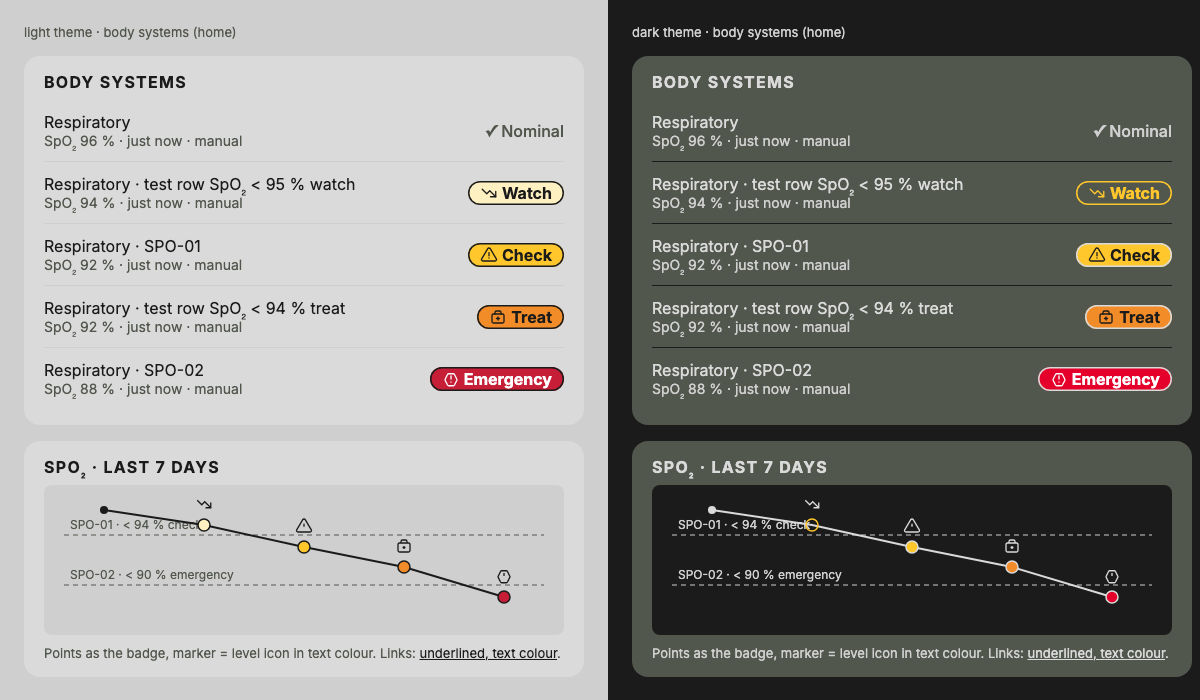
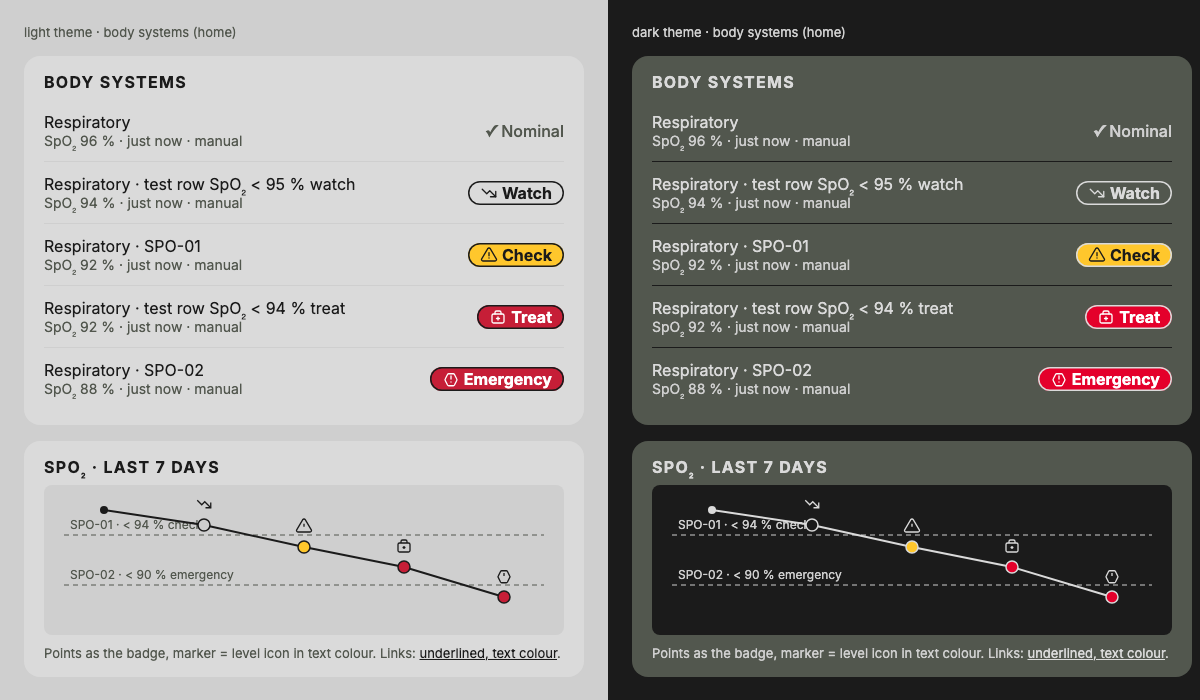
docs: align alert levels with NASA caution and warning classes
Watch becomes neutral (NASA class 0 silent arrow), Treat moves from
orange to red (NASA warning), pale yellow and orange are dropped. Three
level colours remain: blue (advisory), yellow (caution), red (warning,
emergency). Mockups and the alert-levels mock re-rendered.

diff --git a/docs/features/alert-levels.mock.html b/docs/features/alert-levels.mock.html
@@ -3,8 +3,8 @@
 <style>
 *{box-sizing:border-box;margin:0}body{font-family:Inter,sans-serif;font-size:16px;display:grid;grid-template-columns:1fr 1fr;width:1200px}
 .t{padding:24px;display:flex;flex-direction:column;gap:16px}
-.light{--bg:#CFCFCF;--surf:#DADADA;--text:#1B1B1B;--muted:#52574E;--inset:#CFCFCF;--wbg:#FFF0C2;--onw:#1B1B1B;--em:#C61E37}
-.dark{--bg:#1B1B1B;--surf:#52574E;--text:#DADADA;--muted:#CFCFCF;--inset:#1B1B1B;--wbg:transparent;--onw:#FFC72C;--em:#E4002B}
+.light{--bg:#CFCFCF;--surf:#DADADA;--text:#1B1B1B;--muted:#52574E;--inset:#CFCFCF;--em:#C61E37}
+.dark{--bg:#1B1B1B;--surf:#52574E;--text:#DADADA;--muted:#CFCFCF;--inset:#1B1B1B;--em:#E4002B}
 .t{background:var(--bg);color:var(--text)}
 .card{background:var(--surf);border-radius:16px;padding:16px 20px}
 h2{font-size:16px;font-weight:700;letter-spacing:.08em;text-transform:uppercase;margin-bottom:8px}
@@ -13,9 +13,9 @@ h2{font-size:16px;font-weight:700;letter-spacing:.08em;text-transform:uppercase;
 .b{display:inline-flex;align-items:center;gap:4px;padding:2px 12px;border-radius:999px;font-weight:700;white-space:nowrap}
 .b svg{width:18px;height:18px;fill:none;stroke:currentColor;stroke-width:1.75;stroke-linecap:round;stroke-linejoin:round}
 .nom{padding-inline:0;font-weight:500;color:var(--muted)}
-.watch{background:var(--wbg);color:var(--onw);box-shadow:inset 0 0 0 1.5px var(--onw)}
+.watch{color:var(--text);box-shadow:inset 0 0 0 1.5px var(--text)}
 .check{background:#FFC72C;color:#1B1B1B;box-shadow:inset 0 0 0 1.5px var(--text)}
-.treat{background:#F28C28;color:#1B1B1B;box-shadow:inset 0 0 0 1.5px var(--text)}
+.treat{background:var(--em);color:#fff;box-shadow:inset 0 0 0 1.5px var(--text)}
 .emer{background:var(--em);color:#fff;box-shadow:inset 0 0 0 1.5px var(--text)}
 svg.chart{background:var(--inset);border-radius:8px}
 .cap{font-size:13px;color:var(--muted)}
@@ -37,9 +37,9 @@ for(const th of ['light','dark']){document.write(`<div class="t ${th}"><div clas
 <line x1="20" x2="500" y1="100" y2="100" stroke="var(--muted)" stroke-dasharray="5 4"/><text x="26" y="94" font-size="12" fill="var(--muted)">SPO-02 · &lt; 90 % emergency</text>
 <polyline points="60,25 160,40 260,62 360,82 460,112" fill="none" stroke="var(--text)" stroke-width="2"/>
 <circle cx="60" cy="25" r="4" fill="var(--text)"/>
-<circle cx="160" cy="40" r="6" fill="var(--wbg)" stroke="var(--onw)" stroke-width="1.5"/><g transform="translate(151,10)" color="var(--text)">${I.down.replace('<svg','<svg width="18" height="18" fill="none" stroke="currentColor" stroke-width="1.75"')}</g>
+<circle cx="160" cy="40" r="6" fill="var(--inset)" stroke="var(--text)" stroke-width="1.5"/><g transform="translate(151,10)" color="var(--text)">${I.down.replace('<svg','<svg width="18" height="18" fill="none" stroke="currentColor" stroke-width="1.75"')}</g>
 <circle cx="260" cy="62" r="6" fill="#FFC72C" stroke="var(--text)" stroke-width="1.5"/><g transform="translate(251,32)" color="var(--text)">${I.tri.replace('<svg','<svg width="18" height="18" fill="none" stroke="currentColor" stroke-width="1.75"')}</g>
-<circle cx="360" cy="82" r="6" fill="#F28C28" stroke="var(--text)" stroke-width="1.5"/><g transform="translate(351,52)" color="var(--text)">${I.kit.replace('<svg','<svg width="18" height="18" fill="none" stroke="currentColor" stroke-width="1.75"')}</g>
+<circle cx="360" cy="82" r="6" fill="var(--em)" stroke="var(--text)" stroke-width="1.5"/><g transform="translate(351,52)" color="var(--text)">${I.kit.replace('<svg','<svg width="18" height="18" fill="none" stroke="currentColor" stroke-width="1.75"')}</g>
 <circle cx="460" cy="112" r="6" fill="var(--em)" stroke="var(--text)" stroke-width="1.5"/><g transform="translate(451,82)" color="var(--text)">${I.oct.replace('<svg','<svg width="18" height="18" fill="none" stroke="currentColor" stroke-width="1.75"')}</g>
 </svg><div class="cap" style="margin-top:6px">Points as the badge, marker = level icon in text colour. Links: <a href="#">underlined, text colour</a>.</div></div></div>`)}
 </script></body></html>

diff --git a/ideas/mockups/src/08-check-and-act.html b/ideas/mockups/src/08-check-and-act.html
@@ -6,7 +6,7 @@
 .sm{font-size:12.5px;color:#DADADA;line-height:1.5}
 .mut{color:#CFCFCF}
 .ctr{display:grid;grid-template-columns:150px 1fr 70px;gap:4px 10px;font-size:12.5px;margin-top:4px}
-.ctr .y{color:#FFC72C;font-weight:700}
+.ctr .y{color:#DADADA;font-weight:700}
 .act{font-size:12.5px;line-height:1.7}
 .ag{border:1px solid #868375;background:#3D403B;border-radius:8px;padding:9px 10px;margin-top:8px}
 .ag .t{font-size:13px;font-weight:700}.ag .d{font-size:11.5px;color:#CFCFCF;margin-top:3px;line-height:1.4}
@@ -30,8 +30,8 @@
 <text x="34" y="58" fill="#CFCFCF" font-size="10">your baseline 57–65 bpm</text>
 <polyline fill="none" stroke="#DADADA" stroke-width="2" points="40,50 70,48 100,52 130,47 160,50 190,49 220,51 250,46 280,44 310,36 340,30 370,27 400,25"/>
 <g fill="#DADADA"><circle cx="40" cy="50" r="3"/><circle cx="100" cy="52" r="3"/><circle cx="160" cy="50" r="3"/><circle cx="220" cy="51" r="3"/><circle cx="280" cy="44" r="3"/></g>
-<g fill="#1B1B1B" stroke="#FFC72C" stroke-width="2"><circle cx="340" cy="30" r="5"/><circle cx="370" cy="27" r="5"/><circle cx="400" cy="25" r="6"/></g>
-<text x="250" y="16" fill="#FFC72C" font-size="11" font-weight="700">↗ +9 bpm, 3 days running</text>
+<g fill="#1B1B1B" stroke="#DADADA" stroke-width="2"><circle cx="340" cy="30" r="5"/><circle cx="370" cy="27" r="5"/><circle cx="400" cy="25" r="6"/></g>
+<text x="250" y="16" fill="#DADADA" font-size="11" font-weight="700">↗ +9 bpm, 3 days running</text>
 </svg>
 <div class="sm" style="line-height:1.6">Resting HR, last 14 days · today <b>70 bpm</b> (re-measured)<br>Baseline 61 bpm (pre-flight) · no in-flight shift published<br><span class="mut">Trigger: +8 bpm or more for 3 days. App heuristic, not a NASA rule.</span><br><span class="tag">bracelet · simulated</span> <span class="tag">re-measured</span></div>
 </div></div>
@@ -47,7 +47,7 @@
 <div class="ctr">
 <span>Sleep</span><span class="y">↘ 5.4 h avg, 3 nights (target 7–9 h)</span><span class="src">KSS 7 today</span>
 <span>Fluids</span><span class="y">↘ 1.6 L/day, 3 days (target 2.5 L)</span><span class="src">quick log</span>
-<span>Symptoms</span><span class="y">▲ sore throat, FD 144–146</span><span class="src">check-in</span>
+<span>Symptoms</span><span class="y"><span style="color:#FFC72C">▲</span> sore throat, FD 144–146</span><span class="src">check-in</span>
 <span>Temperature</span><span>✓ 37.3 °C, within your in-flight range</span><span class="src">no fever</span>
 <span>Caffeine</span><span>✓ last dose 13:10 yesterday</span><span class="src">check-in</span>
 <span>Exercise load</span><span>✓ as planned (540/600 min/wk)</span><span class="src">routine</span>

diff --git a/ideas/mockups/src/base.css b/ideas/mockups/src/base.css
@@ -15,10 +15,10 @@ body{width:1280px;height:800px;background:#1B1B1B;color:#DADADA;font-family:Inte
 .lv{font-weight:700;font-size:13px;border-radius:13px;padding:3px 10px;display:inline-block;border:1.5px solid #DADADA;white-space:nowrap}
 .nom,.l0{background:transparent;color:#CFCFCF;font-weight:500;font-size:13px;padding:4px 0;display:inline-block}
 .l1{background:transparent;color:#DADADA;border-color:#7FA6F0}.l1 i{color:#7FA6F0;font-style:normal}
-.l2{background:transparent;color:#FFC72C;border-color:#FFC72C}
+.l2{background:transparent;color:#DADADA;border-color:#DADADA}
 .l3{background:#FFC72C;color:#1B1B1B}
-.l4{background:#F28C28;color:#1B1B1B}
-.l5{background:#C61E37;color:#FFFFFF}
+.l4{background:#E4002B;color:#FFFFFF}
+.l5{background:#E4002B;color:#FFFFFF}
 .tag{border:1px solid rgba(218,218,218,.35);border-radius:6px;padding:1px 6px;font-size:11px;color:#CFCFCF}
 .foot{position:absolute;right:14px;bottom:10px;font-size:11px;color:#868375}
 .btn{background:#DADADA;color:#1B1B1B;font-weight:600;border-radius:20px;padding:7px 14px;font-size:13px;display:inline-block}

diff --git a/ideas/alert-levels.md b/ideas/alert-levels.md
@@ -1,32 +1,34 @@
 # Alert levels (0–5)
 
-Added 2026-11-14. One scale for every status the crew app shows: body-map rows, routine items, detail screens and the surgeon packet. It follows the shape of five-level clinical triage scales and adds a level 0 for "all good", so nominal stays quiet. It replaces the three-state nominal / caution / warning set in [crew-health-companion.md](crew-health-companion.md) and the "Proposed tiers" table in [ux-human-factors.md](../research/ux-human-factors.md#3-designing-for-autonomy-under-communication-delay).
+Added 2026-11-14. One scale for every status the crew app shows: body-map rows, routine items, detail screens and the surgeon packet. It follows NASA's caution and warning classes, so the crew reads it the way they read vehicle alerts, and adds a level 1 for the astronaut's own inputs. It replaces the three-state nominal / caution / warning set in [crew-health-companion.md](crew-health-companion.md) and the "Proposed tiers" table in [ux-human-factors.md](../research/ux-human-factors.md#3-designing-for-autonomy-under-communication-delay).
 
 ## The levels
 
-| Level | Word | Meaning | Icon | Typical trigger (from our rule rows) | Default routing (escalation tier) | Interrupts? |
-|---|---|---|---|---|---|---|
-| **0** | Nominal | All good. Nothing happens, no input needed. | ✓ check circle | Values inside the personal baseline and the adaptation corridor | None | No. Quiet: muted text, no fill |
-| **1** | To do | Something to add from the astronaut. Not a health signal. | ✎ edit note | Questionnaire due, PVT due, re-measure requested, glucose or BP to enter by hand | None (the astronaut) | No. Counter badge ("1 due") |
-| **2** | Watch | A value is drifting from normal. A routine change may help. | ↗ / ↘ trend arrow | Sleep under 6 h 3 nights running; hydration below target 3 days running | 1 · Self-care tip, re-check later | No. Silent arrow beside the value (Shuttle "class 0" pattern) |
-| **3** | Check | A value is out of range, or the astronaut reports a symptom or concern. An extra test may help; mention it to the doctors. | ▲ triangle | COG-02 (PVT outside the corridor); SpO₂ < 94% on the first reading; logged headache; positive PHQ-2 | 2 · CMO, or 3 · add to the next private medical conference | No tone. Status chip and a suggested item for the surgeon packet |
-| **4** | Treat | Out of range and needs treatment now, on board. | ✚ medical kit | SpO₂ still < 94% after the re-measure protocol | 2 · CMO now, plus 3 · conference today | Banner on Today until acknowledged. No tone |
-| **5** | Emergency | Immediate danger. Get help. | ⬣ octagon | SpO₂ < 90%, or low SpO₂ with high HR at rest; chest pain with breathlessness | 2 · CMO now + 4 · urgent ground contact; vehicle emergency protocol | Full screen, flashing, tone. Defers to the vehicle caution and warning system |
+The levels follow NASA's caution and warning classes, which astronauts already train on: quiet display, Shuttle class 0 limit sensing, advisory, caution, warning and emergency [S2 §10.9.1.1, Table 10.9-1] [S4]. Only three colours are used, as NASA does: blue (advisory), yellow (caution) and red (warning and emergency).
+
+| Level | Word | NASA class | Meaning | Icon | Typical trigger (from our rule rows) | Default routing (escalation tier) | Interrupts? |
+|---|---|---|---|---|---|---|---|
+| **0** | Nominal | Quiet display [S3] | All good. Nothing happens, no input needed. | ✓ check circle | Values inside the personal baseline and the adaptation corridor | None | No. Quiet: muted text, no fill |
+| **1** | To do | Advisory: routine action | Something to add from the astronaut. Not a health signal. | ✎ edit note | Questionnaire due, PVT due, re-measure requested, glucose or BP to enter by hand | None (the astronaut) | No. Counter badge ("1 to do") |
+| **2** | Watch | Class 0 limit sensing [S2 §10.9.1.1] | A value is drifting from normal. A routine change may help. | ↗ / ↘ trend arrow | Sleep under 6 h 3 nights running; hydration below target 3 days running | 1 · Self-care tip, re-check later | No. Silent, no colour: arrow and word beside the value |
+| **3** | Check | Caution | A value is out of range, or the astronaut reports a symptom or concern. An extra test may help; mention it to the doctors. | ▲ triangle | COG-02 (PVT outside the corridor); SpO₂ < 94% on the first reading; logged headache; positive PHQ-2 | 2 · CMO, or 3 · add to the next private medical conference | No tone. Status chip and a suggested item for the surgeon packet |
+| **4** | Treat | Warning: immediate action | Out of range and needs treatment now, on board. | ✚ medical kit | SpO₂ still < 94% after the re-measure protocol | 2 · CMO now, plus 3 · conference today | Banner on Today until acknowledged. No tone, no flashing |
+| **5** | Emergency | Emergency | Immediate danger. Get help. | ⬣ octagon | SpO₂ < 90%, or low SpO₂ with high HR at rest; chest pain with breathlessness | 2 · CMO now + 4 · urgent ground contact; vehicle emergency protocol | Full screen, flashing, tone. Defers to the vehicle caution and warning system |
 
 Triggers are examples from the rules already in [crew-health-companion.md](crew-health-companion.md) (check-and-act, COG-02, kidney trend). Each real trigger lives in the rule table with its source; this file sets only what a level looks like and does.
 
 ### How it maps to NASA
 
-| Our level | NASA alert class [S4] | NASA colour rule [S1 V2 10114–10119] [S2 §10.11.5.5] |
-|---|---|---|
-| 0 Nominal | — (quiet/dark display) [S3] | no emphasis |
-| 1 To do | Advisory: routine action | blue = advisory |
-| 2 Watch | Caution, low; silent class 0 arrow [S2 §10.9.1.1] | yellow outline (caution family) |
-| 3 Check | Caution | yellow = caution |
-| 4 Treat | Caution, high. Team addition, see open question 1 | orange, between yellow and red |
-| 5 Emergency | Warning / Emergency | red = highest level |
+| Our level | NASA alert class [S4] | NASA colour rule [S1 V2 10114–10119] [S2 §10.11.5.5] | Artemis tone [S4][S5] |
+|---|---|---|---|
+| 0 Nominal | — (quiet/dark display) [S3] | no emphasis | none |
+| 1 To do | Advisory: routine action | blue = advisory | none (advisory beeps are optional) |
+| 2 Watch | Class 0: silent arrow beside an out-of-limit value [S2 §10.9.1.1] | no colour | none |
+| 3 Check | Caution: attention, not immediate action | yellow = caution | none: a health value is not a vehicle caution |
+| 4 Treat | Warning: immediate action | red | none |
+| 5 Emergency | Emergency: threat to the crew | red | yes, deferring to the vehicle C&W tones |
 
-Red stays the highest level and is used for nothing else. Yellow and orange are the caution band. Blue means "your action, not your health".
+Red is used for levels 4 and 5 and nothing else; yellow only for level 3; blue only for level 1. NASA has no orange and one caution yellow, so neither do we. Like NASA's warning and emergency, levels 4 and 5 share red and differ by icon, word and how they interrupt (banner vs full screen with flashing and tone).
 
 ## Colours
 
@@ -36,27 +38,26 @@ Light theme on background `#CFCFCF` / card `#DADADA`; dark theme on background `
 |---|---|---|---|
 | 0 Nominal | none · `#52574E` olive · none | none · `#868375` khaki on background, `#CFCFCF` on the card · none | Olive 4.8:1 on light bg, 5.3:1 on card. Khaki is 4.5:1 on the dark background but 1.9:1 on the olive card, so on the card the word uses `#CFCFCF` (4.8:1) |
 | 1 To do | none · `#1651B6` blue · `#1651B6` | none · `#7FA6F0` blue tint · `#7FA6F0` | Outline chip. Blue 4.7:1 light bg; tint 7.1:1 dark bg, 3.0:1 on the card (icon and border fine, word in `#DADADA`) |
-| 2 Watch | `#FFF0C2` pale yellow · `#1B1B1B` · `#1B1B1B` | none · `#FFC72C` yellow · `#FFC72C` | Light: yellow outline would be 1.0:1 on the bg, so the light theme uses a pale tint + dark border. Dark: outline only, 11.0:1 bg, 4.8:1 card |
+| 2 Watch | none · text colour · text colour | none · text colour · text colour | Neutral outline chip: no level colour (NASA class 0 is silent). Told apart from Nominal by the arrow, the word and the border |
 | 3 Check | `#FFC72C` yellow · `#1B1B1B` · `#1B1B1B` | `#FFC72C` yellow · `#1B1B1B` · `#DADADA` | The existing caution yellow. Ink 11.0:1 |
-| 4 Treat | `#F28C28` orange · `#1B1B1B` · `#1B1B1B` | `#F28C28` orange · `#1B1B1B` · `#DADADA` | New. Ink 7.0:1 |
+| 4 Treat | `#C61E37` red · `#FFFFFF` · `#1B1B1B` | `#E4002B` bright red · `#FFFFFF` · `#DADADA` | Same chip as level 5; icon ✚ and word "Treat" |
 | 5 Emergency | `#C61E37` red · `#FFFFFF` · `#1B1B1B` | `#E4002B` bright red · `#FFFFFF` · `#DADADA` | As in [ui-guidelines.md](ui-guidelines.md): white ink 5.77:1 light, 4.85:1 dark; `#E4002B` is 3.55:1 on the dark background |
 
-**Border rule.** Filled chips carry a 1.5 px border in the theme's text colour. Yellow and orange are 1.0–1.8:1 against the light background, and dark red is 1.53:1 on the olive card, so without it the chip shape fails the 3:1 UI-component minimum.
+**Border rule.** Filled chips carry a 1.5 px border in the theme's text colour. Yellow is 1.0:1 against the light background, and dark red is 1.53:1 on the olive card, so without it the chip shape fails the 3:1 UI-component minimum. A red outline-only chip for level 4 was tried and dropped for the same reason.
 
-Tokens (`--color-todo`, `--color-watch-bg`, `--color-check`, `--color-treat`, `--color-emergency` and their `--color-on-*` inks) are defined in [ui-guidelines.md](ui-guidelines.md) §2.2.
+Tokens (`--color-todo`, `--color-check`, `--color-alert` and their `--color-on-*` inks) are defined in [ui-guidelines.md](ui-guidelines.md) §2.2.
 
 **How they were checked** (OKLab ΔE×100, Machado 2009 colour-blind simulation at severity 1.0; WCAG 2.1 contrast; computed 2026-11-14):
 
 | Pair | Normal | Protan | Deutan | Tritan |
 |---|---|---|---|---|
-| 3 yellow vs 4 orange | 14.5 | 15.4 | 12.2 | 13.7 |
-| 4 orange vs 5 red (light `#C61E37` / dark `#E4002B`) | 23.5 / 20.8 | 26.5 / 23.7 | 20.7 / 15.3 | 17.7 / 13.7 |
-| 2 pale yellow vs 3 yellow (light) | 14.4 | 16.5 | 14.0 | — |
-| 1 blue vs 5 red (light / dark, worst) | 32.9 / 33.5 | 21.0 / 35.2 | 27.3 / 26.3 | 32.0 / 35.9 |
+| 3 yellow vs 4–5 red (light `#C61E37` / dark `#E4002B`) | 37.9 / 35.1 | 41.8 / 39.0 | 32.8 / 27.4 | 31.0 / 27.2 |
+| 1 blue vs 3 yellow (light / dark) | 51.8 / 31.0 | 46.7 / 29.0 | 53.1 / 32.3 | 39.6 / 21.8 |
+| 1 blue vs 4–5 red (light / dark) | 32.9 / 34.4 | 21.0 / 34.4 | 27.3 / 25.9 | 32.0 / 36.2 |
 
-Every adjacent pair stays above the colour-blind target of 8. Even so, colour is never the only cue: each level has its own icon shape and word.
+Every pair stays well above the colour-blind target of 8, more than twice the closest pair of the earlier six-colour set (yellow vs orange, 12.2 deutan). Even so, colour is never the only cue: each level has its own icon shape and word.
 
-Two other oranges were tried and dropped: `#E8661A` sits too close to red for tritan viewers (10.9) and fails 3:1 on the dark card; `#FF8F1F` sits too close to yellow for deutan viewers (9.8).
+**Dropped 2026-11-14:** an orange level 4 (`#F28C28`) and a pale-yellow level 2 (`#FFF0C2`). Neither has a NASA counterpart, and the team found 2/3 and 3/4 too alike.
 
 ## Rules
 
@@ -65,17 +66,18 @@ Two other oranges were tried and dropped: `#E8661A` sits too close to red for tr
 3. **Missing data is not a level.** It shows as data age ("data 8 d old"), as today. An overdue test becomes level 1, never 2–5 ([crew-health-companion.md](crew-health-companion.md), missed-data rules).
 4. **Levels 4 and 5 skip the tips.** As in check-and-act: the card goes straight to the action. Tips never stand between a warning and help.
 5. **Routing can differ from urgency.** The routing column is the default. A rule row may route differently: a slow vision trend is level 3 but goes to the flight surgeon, not the CMO ([ux-human-factors.md](../research/ux-human-factors.md) key takeaways).
-6. **Colour only on levels 1–5.** The rest of the UI is neutral palette greys and whites: selection, links, brand mark, progress bars, chart lines and health categories have no colour ([health-categories.md](health-categories.md#how-categories-are-shown)). Any colour on screen means "your action may be needed". Selected states use the neutral pill (`#DADADA` on `#1B1B1B`).
+6. **Colour only on levels 1, 3, 4 and 5.** Level 2 Watch is neutral, like NASA's silent class 0 arrow. The rest of the UI is neutral palette greys and whites: selection, links, brand mark, progress bars, chart lines and health categories have no colour ([health-categories.md](health-categories.md#how-categories-are-shown)). Any colour on screen means "your action may be needed". Selected states use the neutral pill (`#DADADA` on `#1B1B1B`).
 7. **No gamification of levels.** Levels never earn or cost points. Completing a level 1 item counts as a done check-in step.
 
 ## Open questions
 
-1. **Level 4 in orange.** NASA's rule is red = highest, yellow = second. We read orange as the top of the caution band and keep red for level 5 only. If judges read "needs treatment" as a NASA *warning*, the alternative is level 4 = red without flashing or tone and level 5 = red + flashing + tone (the earlier "Proposed tiers").
-2. **Triage source.** Name and cite the five-level triage scale this follows before using it in the pitch.
+1. **Triage source.** NASA publishes no medical triage scale for crew; a National Academies report lists one as a need [IOM]. These levels borrow NASA's alert classes instead. Name any clinical five-level scale before citing it in the pitch.
 
 ## Sources
 
 - [S1] [S2] [S3] [S4]: NASA-STD-3001 Vol 2, HIDH, CLDP crew-interface and alert workshops, as listed in [research/ux-human-factors.md](../research/ux-human-factors.md#sources).
 - Escalation tiers: [research/countermeasures.md](../research/countermeasures.md), "Escalation ladder".
 - SpO₂ thresholds and check-and-act: [crew-health-companion.md](crew-health-companion.md) (clinical convention, sourced there).
+- [IOM] Institute of Medicine, *Safe Passage: Astronaut Care for Exploration Missions* (2001), ch. 4 "Emergency and Continuing Care", Health Care Opportunity 15: "Developing a resource-based medical triage system that contains guidelines for the management of individual and multiple casualties during space travel": https://nap.nationalacademies.org/read/10218/chapter/6 (verified 2026-11-14).
+- Shuttle class names (Class 1 Emergency, Class 2 Caution and Warning, Class 3 Alert, Class 0 Limit Sensing; section titles only, the body was not machine-readable) in the Shuttle Caution and Warning training manual C&W 21002: https://ibiblio.org/apollo/Shuttle/TD0402B%20-%20C&W%2021002%20-%20Caution%20and%20Warning.pdf (verified 2026-11-14).
 - Colour checks: Machado, Oliveira & Fernandes (2009), IEEE TVCG 15(6); WCAG 2.1 contrast (1.4.3 text, 1.4.11 non-text).

diff --git a/ideas/ui-guidelines.md b/ideas/ui-guidelines.md
@@ -8,7 +8,7 @@ Requirement tags such as `[S1 V2 10045]` are the source tags of [ux-human-factor
 
 ## The ten rules
 
-1. **Colour means an alert level, and nothing else uses it.** Status follows the 0–5 scale in [alert-levels.md](alert-levels.md): blue = level 1 "to do", yellow = levels 2–3, orange = level 4, red = level 5. Everything else (brand, links, focus, selection, categories, charts) is palette greys and whites. No red logo, heart, category colour, delete button or yellow "due" marker [S1 V2 10118/10119].
+1. **Colour means an alert level, and nothing else uses it.** Status follows the 0–5 scale in [alert-levels.md](alert-levels.md), which mirrors NASA's caution and warning classes: blue = level 1 "to do" (advisory), yellow = level 3 "check" (caution), red = levels 4–5 "treat" and "emergency" (warning, emergency). Level 2 "watch" has no colour, like NASA's silent class 0 arrow. Everything else (brand, links, focus, selection, categories, charts) is palette greys and whites. No red logo, heart, category colour, delete button or yellow "due" marker [S1 V2 10118/10119].
 2. **Every level has an icon, a word and a colour** [S1 V2 10045]. Colour is never the only cue.
 3. **Quiet when nominal.** Nominal is muted text with no fill; only off-nominal items draw the eye [S3].
 4. **Every reading shows its value with the unit, its data age and its source** [S1 V2 10046, V2 10020]. Simulated, replayed and proxy data say so.
@@ -39,12 +39,12 @@ Requirement tags such as `[S1 V2 10045]` are the source tags of [ux-human-factor
 | `#52574E` | Olive | Light muted text; dark surface; featured tile 2 |
 | `#1651B6` | Blue | Level 1 "to do", light theme only |
 | `#0032A0` | Deep blue | Not used (was link hover) |
-| `#C61E37` | Red | Level 5 emergency, light theme only |
-| `#E4002B` | Bright red | Level 5 emergency, dark theme only |
+| `#C61E37` | Red | Levels 4–5 treat and emergency, light theme only |
+| `#E4002B` | Bright red | Levels 4–5 treat and emergency, dark theme only |
 
-Added for the alert levels and dark contrast (not on the canvas): `#FFC72C` caution yellow (levels 2–3), `#FFF0C2` pale yellow (level 2 fill, light theme), `#F28C28` orange (level 4), `#FFFFFF` text on red, `#7FA6F0` blue tint (level 1 in dark; `#1651B6` is 2.37:1 on `#1B1B1B`). Colour-blind separation of the level colours: [alert-levels.md](alert-levels.md#colours).
+Added for the alert levels and dark contrast (not on the canvas): `#FFC72C` caution yellow (level 3), `#FFFFFF` text on red, `#7FA6F0` blue tint (level 1 in dark; `#1651B6` is 2.37:1 on `#1B1B1B`). Colour-blind separation of the level colours: [alert-levels.md](alert-levels.md#colours).
 
-Coding colours (colours that carry a meaning) are red, orange, yellow and blue, well under NASA's limit of 9 [S2 §10.9.2.5.1]. No red/green pairs [S2 §10.6.19]. The greys and earth tones carry no meaning.
+Coding colours (colours that carry a meaning) are red, yellow and blue, as on NASA displays, well under NASA's limit of 9 [S2 §10.9.2.5.1]. No red/green pairs [S2 §10.6.19]. The greys and earth tones carry no meaning.
 
 ### 2.2 Semantic tokens
 
@@ -69,16 +69,14 @@ Components use these names, not the hex values.
 | `--color-feature-1` / `--color-on-feature-1` | `#868375` / `#1B1B1B` | same | Featured tile 1 (exercise) |
 | `--color-feature-2` / `--color-on-feature-2` | `#52574E` / `#DADADA` | same | Featured tile 2 (sleep) |
 | `--color-todo` | `#1651B6` | `#7FA6F0` | Level 1 "to do": outline, icon and border only, never a fill (badge, to-do counter, due routine row) |
-| `--color-watch-bg` / `--color-on-watch` | `#FFF0C2` / `#1B1B1B` | transparent / `#FFC72C` | Level 2 "watch": light = pale fill with ink outline; dark = yellow outline and text |
 | `--color-check` / `--color-on-check` | `#FFC72C` / `#1B1B1B` | same | Level 3 "check" badge, segment and chart marker |
-| `--color-treat` / `--color-on-treat` | `#F28C28` / `#1B1B1B` | same | Level 4 "treat" |
-| `--color-emergency` / `--color-on-emergency` | `#C61E37` / `#FFFFFF` | `#E4002B` / `#FFFFFF` | Level 5 "emergency" |
+| `--color-alert` / `--color-on-alert` | `#C61E37` / `#FFFFFF` | `#E4002B` / `#FFFFFF` | Level 4 "treat" and level 5 "emergency" (NASA warning and emergency share red) |
 
 ### 2.3 Rules
 
-- **Level colours** appear only on a level badge, a ring segment, a chart marker or a level-1 "to do" outline, and always next to the level icon and word. Exception: a chart point marker is icon + colour; its word is in the point's title and the screen's badge (§5 "Charts").
+- **Level colours** (blue, yellow, red) appear only on a level badge, a ring segment, a chart marker or a level-1 "to do" outline, and always next to the level icon and word. Exception: a chart point marker is icon + colour; its word is in the point's title and the screen's badge (§5 "Charts").
 - **Neutral:** links, focus, the brand arc, selected states (inverse pill), chart lines and bands, "offline", "waiting to sync", "rule-added", form errors and destructive actions use greys and whites (§5). A missing questionnaire is data age, not a level.
-- **Filled level badges** carry a 1.5 px outline in `--color-text`: yellow, pale yellow and orange vanish on the light background (1.00–1.58:1) and red on the dark surface (1.53:1).
+- **Filled level badges** carry a 1.5 px outline in `--color-text`: yellow vanishes on the light background (1.00:1) and red on the dark surface (1.53:1).
 - **Featured tiles** (khaki, olive) are category surfaces for at most two summaries per screen. They never show status and never colour anything else.
 - **Khaki is never text on a surface** (2.72:1 light, 1.95:1 dark). On the dark background it is muted text (4.53:1).
 - **Ink on a fill** follows the canvas rule: dark ink `#1B1B1B` when the fill's relative luminance is above 0.164, otherwise `#DADADA`. Red is the exception: `#FFFFFF`.
@@ -101,13 +99,8 @@ Text needs 4.5:1 (3:1 at 24 px, or 19 px bold). The edges of controls and graphi
 | Focus ring on background / surface | 11.06 / 12.32 | 12.32 / 5.30 | Pass |
 | Inverse text on inverse | 12.32 | 12.32 | Pass |
 | Ink on yellow (level 3) | 11.04 | 11.04 | Pass |
-| Yellow fill on background | **1.00** | 11.04 | Light: the fill is invisible, so level 2–3 badges have an ink outline |
-| Yellow (level 2 outline) on surface | — | 4.75 | Pass |
-| Ink on pale yellow (level 2, light) | 15.17 | — | Pass; fill on background 1.37, so the ink outline carries the shape |
-| Ink on orange (level 4) | 7.02 | 7.02 | Pass |
-| Orange on background | **1.58** | 7.02 | Light: ink outline |
-| Orange on surface | **1.76** | 3.02 | Light: ink outline |
-| White on red (level 5) | 5.77 | 4.85 | Pass |
+| Yellow fill on background | **1.00** | 11.04 | Light: the fill is invisible, so level 3 badges have an ink outline |
+| White on red (levels 4–5) | 5.77 | 4.85 | Pass |
 | Red on background | 3.70 | 3.55 | Pass (shapes) |
 | Red on surface | 4.12 | **1.53** | Dark: badge meaning is carried by its white icon and word; never a bare red shape on a dark surface |
 | Ink on featured tile | 4.53 / 5.30 | same | Pass |
@@ -151,7 +144,7 @@ Brand mark (28 px, not a button) on the left, wordmark "HEALTH" in the centre, i
 
 ### Body-system ring (the canvas "health score" ring)
 - **Segments:** one per body system the rules engine reports on (the list on the [body map](mockups/01-body-map.png)), each identified by its icon, not by colour.
-- **Colour by level:** nominal segments are `--color-ring` with an icon in `--color-text` (quiet). Levels 2–5 colour the segment with the level colour and its marker (↗/↘, ▲, kit, octagon "!"). Level 1 is not a body-system status.
+- **Colour by level:** nominal segments are `--color-ring` with an icon in `--color-text` (quiet). Levels 3–5 colour the segment with the level colour; level 2 keeps the grey segment. Every flagged segment shows its marker (↗/↘, ▲, kit, octagon "!"). Level 1 is not a body-system status.
 - **Centre:** the number of systems at levels 2–5 (`--text-hero`) with "systems to check" and the (i) button that opens what / why / how decided / what next. With none, it shows "All nominal" in muted text and the time of the last update. Never a composite health score.
 - **Interaction:** each segment is a button to the system's detail. A list view of the same systems is always one tap away, so the ring isn't the only path [S1 V2 10045].
 
@@ -243,10 +236,10 @@ The 0–5 scale, its meaning and routing: [alert-levels.md](alert-levels.md).
 |---|---|---|
 | 0 Nominal | No fill, muted text, ✓ icon, weight 500 | ✓ Nominal |
 | 1 To do | No fill, `--color-text` word, 1.5 px `--color-todo` outline, edit icon in `--color-todo`, weight 700 | ✎ To do |
-| 2 Watch | `--color-watch-bg` fill, `--color-on-watch` text, 1.5 px outline (light: ink; dark: yellow), trend-arrow icon, weight 700 | ↗ Watch |
+| 2 Watch | No fill, `--color-text` word and icon, 1.5 px `--color-text` outline, trend-arrow icon, weight 700. No level colour (NASA class 0) | ↗ Watch |
 | 3 Check | `--color-check` fill, ink text, 1.5 px `--color-text` outline, ▲ icon, weight 700 | ▲ Check |
-| 4 Treat | `--color-treat` fill, ink text, 1.5 px `--color-text` outline, first-aid-kit icon, weight 700 | ✚ Treat |
-| 5 Emergency | `--color-emergency` fill, white text, 1.5 px `--color-text` outline, octagon "!" icon, weight 700 | (octagon) Emergency |
+| 4 Treat | `--color-alert` fill, `--color-on-alert` text, 1.5 px `--color-text` outline, first-aid-kit icon, weight 700 | ✚ Treat |
+| 5 Emergency | `--color-alert` fill, `--color-on-alert` text, 1.5 px `--color-text` outline, octagon "!" icon, weight 700 | (octagon) Emergency |
 
 "No data" and "No recent data" use `badge--quiet`: muted, no icon, no fill. Missing or stale data is not a health status.
 
@@ -283,7 +276,7 @@ Why Tabler (checked 2026-11-14 against 64 concepts the app needs, from the packa
 ### Charts (for the detail screens)
 - **Plot area:** a `--color-inset` well inside the card, so the lines and the band keep contrast.
 - **Lines and bands:** data line in `--color-text`; the adaptation corridor is the only filled band (`--color-text` at about 20 % with a faint edge); the pre-flight baseline is a thin dashed `--color-text-muted` line at the baseline median, labelled "your pre-flight normal" ([mockup 02](mockups/02-detail.png)). No category colours: categories are told apart by name and icon ([health-categories.md](health-categories.md#how-categories-are-shown)).
-- **Points:** a point at level 2–5 takes its badge's fill and outline (a dark-theme Watch point is a yellow ring), with the level icon (18 px, `--color-text`) above it as the marker; stale or missing points are hollow, and the newest point of a stale level is hollow with no marker. The line itself never takes a level colour. The marker shows icon + colour without the word (§2.3 exception); each point's title gives value, level, UTC time and source.
+- **Points:** a point at level 2–5 takes its badge's fill and outline (a Watch point is a ring in `--color-text`), with the level icon (18 px, `--color-text`) above it as the marker; stale or missing points are hollow, and the newest point of a stale level is hollow with no marker. The line itself never takes a level colour. The marker shows icon + colour without the word (§2.3 exception); each point's title gives value, level, UTC time and source.
 - **Thresholds:** one dashed `--color-text-muted` line per rule row, labelled with the rule and its level ("SPO-01 · < 94 % check"). Never a level colour.
 - **Range:** a fixed Y range per indicator (SpO₂ 80–100 %, grid every 5) so the threshold lines always show; values outside it sit on the edge.
 - **Axes:** units on the axes, faint optional grid lines, no dual axes [S1 V2 10046][S2 §10.6.18].
@@ -305,7 +298,7 @@ Why Tabler (checked 2026-11-14 against 64 concepts the app needs, from the packa
 ## 8. Checklist for every UI pull request
 
 - [ ] Colours come from tokens only (no hex in `ui/*.tsx`).
-- [ ] Blue, yellow, orange and red appear only on alert levels, with icon + word.
+- [ ] Blue, yellow and red appear only on alert levels, with icon + word.
 - [ ] Every new colour pair is in §2.4 and passes.
 - [ ] Text ≥ 16 px; values ≥ 28 px; targets ≥ 52 px and ≥ 18 px apart.
 - [ ] Values show unit, data age and source; missing shows "—"; stale looks stale.
@@ -318,7 +311,7 @@ Why Tabler (checked 2026-11-14 against 64 concepts the app needs, from the packa
 | Canvas | Guideline | Why |
 |---|---|---|
 | Red arc in the logo and loading ring | `--color-text` arc (blue until 2026-11-14) | Red is reserved for level 5 [S1 V2 10118/10119]; blue for level 1 |
-| Ring segments coloured red, blue, khaki and olive by category | Ring grey when nominal; level colour only at levels 2–5; icon names the system | One meaning per colour; quiet when nominal [S2 §10.11.5.5][S3] |
+| Ring segments coloured red, blue, khaki and olive by category | Ring grey when nominal and at level 2; level colour only at levels 3–5; icon names the system | One meaning per colour; quiet when nominal [S2 §10.11.5.5][S3] |
 | "8.8 your health score" | Count of systems to check, or "All nominal" | No scores on health values; thresholds must be sourced; scoring feeds under-reporting ([crew-health-companion.md](crew-health-companion.md), "Reporting is a win") |
 | "Stress 82" tile | "Mood" tile, self-reported 1–5 | No inferred emotion ([ux-human-factors.md](../research/ux-human-factors.md) checklist item 14) |
 | "Genetics" segment | Removed | No in-flight genetic monitoring; segments follow the rules engine |

diff --git a/ideas/crew-health-companion.md b/ideas/crew-health-companion.md
@@ -67,7 +67,7 @@ Gates G1–G5: pass (G2 and G3 with the modifications below) — see "Gates".
    - its scheduled checks
 4. **Mission routine.** The app prompts the checks NASA already schedules: daily check-in, PVT every 4th day, weekly vision self-test, and pre-landing fluid loading. A "post-flight" mode extends tracking into recovery, because bone and cognition don't return to baseline quickly ([long-duration-literature.md](../research/long-duration-literature.md)).
 5. **Escalation and delay.** Each action names the tier. The flight-surgeon packet is store-and-forward and shows the current one-way delay for the chosen environment mode: Moon ~1.3 s light-time, 6–10 s in practice; Mars 3–22 min.
-6. **NASA display rules.** Nominal is quiet. Statuses follow the 0–5 [alert levels](alert-levels.md): blue = astronaut input due, yellow/orange = caution band, red = emergency only, always with an icon and a word. Each value shows its unit, data age and trend ([ux-human-factors.md](../research/ux-human-factors.md)).
+6. **NASA display rules.** Nominal is quiet. Statuses follow the 0–5 [alert levels](alert-levels.md): mirroring NASA alert classes: blue = astronaut input due, a grey arrow = drifting, yellow = caution, red = treatment or emergency only, always with an icon and a word. Each value shows its unit, data age and trend ([ux-human-factors.md](../research/ux-human-factors.md)).
 7. **Privacy and gamification.**
    - Data is private by default.
    - There are role views for self, CMO and surgeon.
@@ -272,7 +272,7 @@ See the [home screen mockup](mockups/01-body-map.png).
 - **One reminder when a window opens:** a banner with "Start" and "Snooze", and nothing more. NASA notes that too many alerts become a nuisance and crews stop responding ([ux-human-factors.md](../research/ux-human-factors.md)).
 - **Bundling:** everything due in the same window starts with one "Start" as one session.
 - **Rule-triggered items join the next session** instead of interrupting, unless the rule is urgent. Even then the banner names the reason.
-- **"Due" is alert level 1, never 2–5.** A due item gets the level 1 blue outline, icon and the word "to do" ([alert-levels.md](alert-levels.md)). Yellow, orange and red stay for health status. The dashed grey "rule" tag marks why an item was added, not urgency.
+- **"Due" is alert level 1, never 2–5.** A due item gets the level 1 blue outline, icon and the word "to do" ([alert-levels.md](alert-levels.md)). Yellow and red stay for health status. The dashed grey "rule" tag marks why an item was added, not urgency.
 
 **Who sees what is pending**
 - The astronaut sees their own list.

diff --git a/ideas/features.md b/ideas/features.md
@@ -73,7 +73,7 @@ Each feature has: what it is, why it matters, how it works, an example, what it 
 #### F6. Body map (home screen) · Must
 - **What:** a human figure plus a list of body systems, each with a status on the 0–5 [alert scale](alert-levels.md): nominal, to do, watch, check, treat or emergency.
 - **Why:** the challenge suggests a clickable human figure. One glance shows where attention is needed.
-- **How:** NASA display rules: quiet when all is fine; blue = input due, yellow/orange = caution band, red = emergency, **always with an icon and a word**, never color alone. Each value shows its unit, age and source ("4 min ago · simulated"). Missing data shows as "data 8 d old", never as a health alarm.
+- **How:** NASA display rules: quiet when all is fine; blue = input due (NASA advisory), grey arrow = drifting (class 0), yellow = caution, red = needs treatment or emergency (warning), **always with an icon and a word**, never color alone. Each value shows its unit, age and source ("4 min ago · simulated"). Missing data shows as "data 8 d old", never as a health alarm.
 - **Needs:** F4. See mockup [01-body-map.png](mockups/01-body-map.png).
 - **Status:** the "Body systems" list on home shows Respiratory (from SpO₂) as nominal, caution, warning, "No data", or "No recent data" with the data age when the reading is older than 24 h; source label "manual". Cognition comes from the PVT (rule COG-01, issue #17): "PVT median 312 ms · 10 min ago · in-app test", stale after 4 days. The other eight systems of mockup 01 show synthetic nominal placeholder values labelled "synthetic" (`infrastructure/mockStatuses.ts`); a system drops its placeholder once a rule covers it. The "Latest readings" tiles show the newest heart rate, SpO₂, sleep and mood from manual check-ins with unit, data age and the tag "manual". SpO₂ carries the Respiratory caution or warning badge, a value older than 24 h looks stale, and a field never entered shows "—". A seventh tile, "Reaction time", shows the latest PVT median tagged "in-app test" (F7, issue #16). Blood pressure and cabin CO₂ are synthetic tiles (`infrastructure/mockReadings.ts`). The human figure sits in the Hazard lens card (issue #14): six display-only labels (Cognition, Eyes, Lungs, Heart, Kidneys, Bone & muscle) that stay quiet when nominal and show the status badge for caution or warning. Missing: rules for the other systems, tapping a figure item to open its detail.
 
